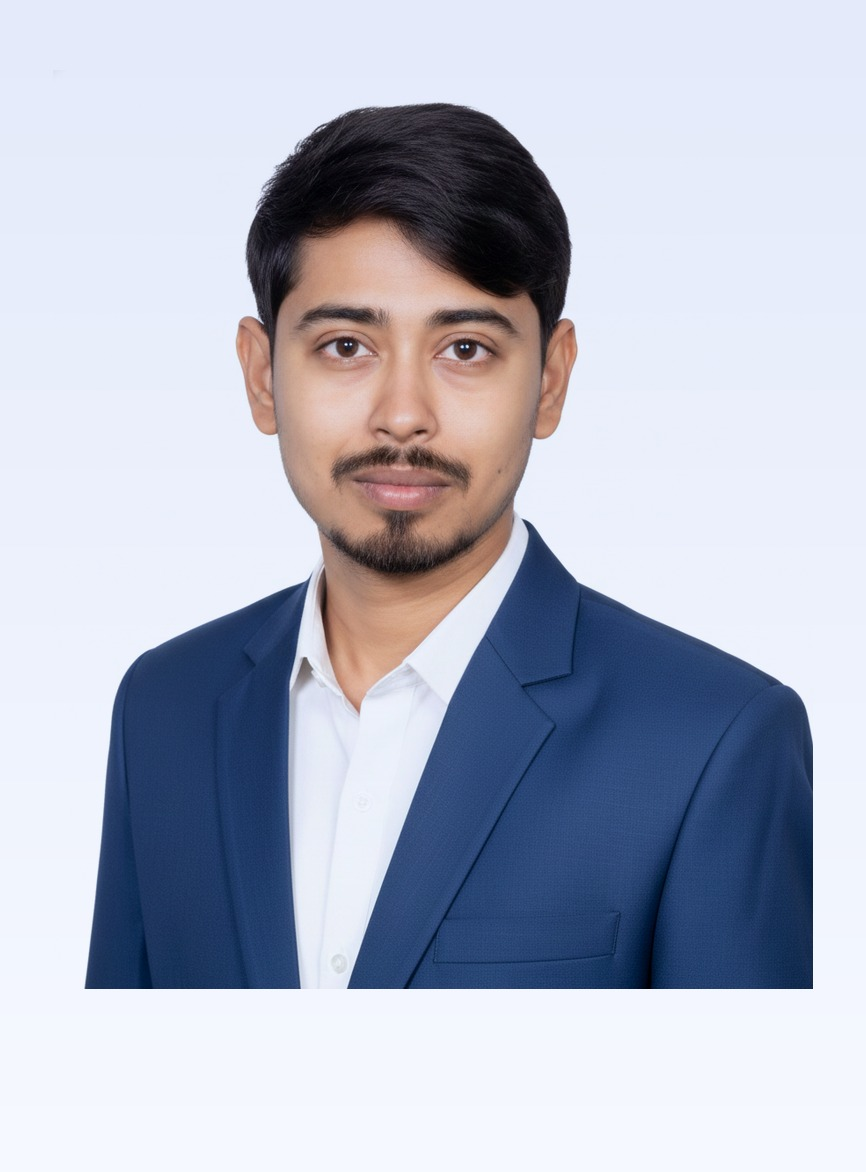
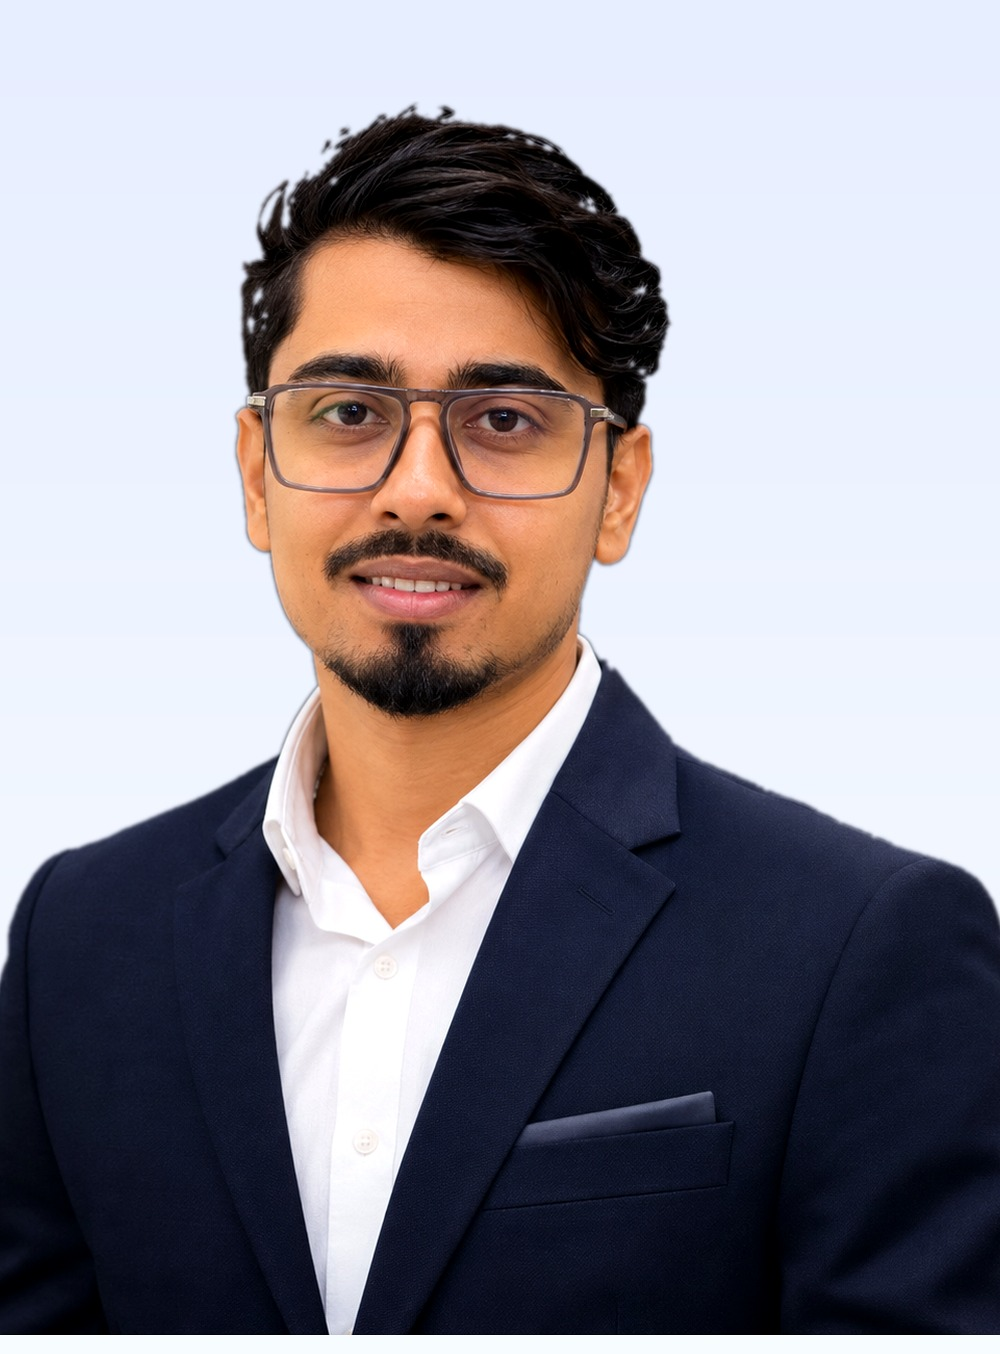
Update hero photo and remove "Freelance" from availability chip
- Replace hero portrait with the new headshot, cut out and placed on the
  site's existing airy backdrop to match the current design
- Hero availability chip now reads "Available for Opportunities"

Claude-Session: https://claude.ai/code/session_01KdGE8Rn1nhNiqAWHojzo6p

diff --git a/components/Sections.jsx b/components/Sections.jsx
@@ -14,7 +14,7 @@ export function Hero() {
       <div className="wrap">
         <div>
           <div className="hero__chips">
-            <span className="chip chip--live">Available for Opportunities &amp; Freelance</span>
+            <span className="chip chip--live">Available for Opportunities</span>
             <span className="chip">Microsoft Power Platform · Azure · Agentic AI</span>
           </div>
           <p className="hero__greet">Hi, I'm <span className="hero__nm">{profile.name}</span>.</p>
